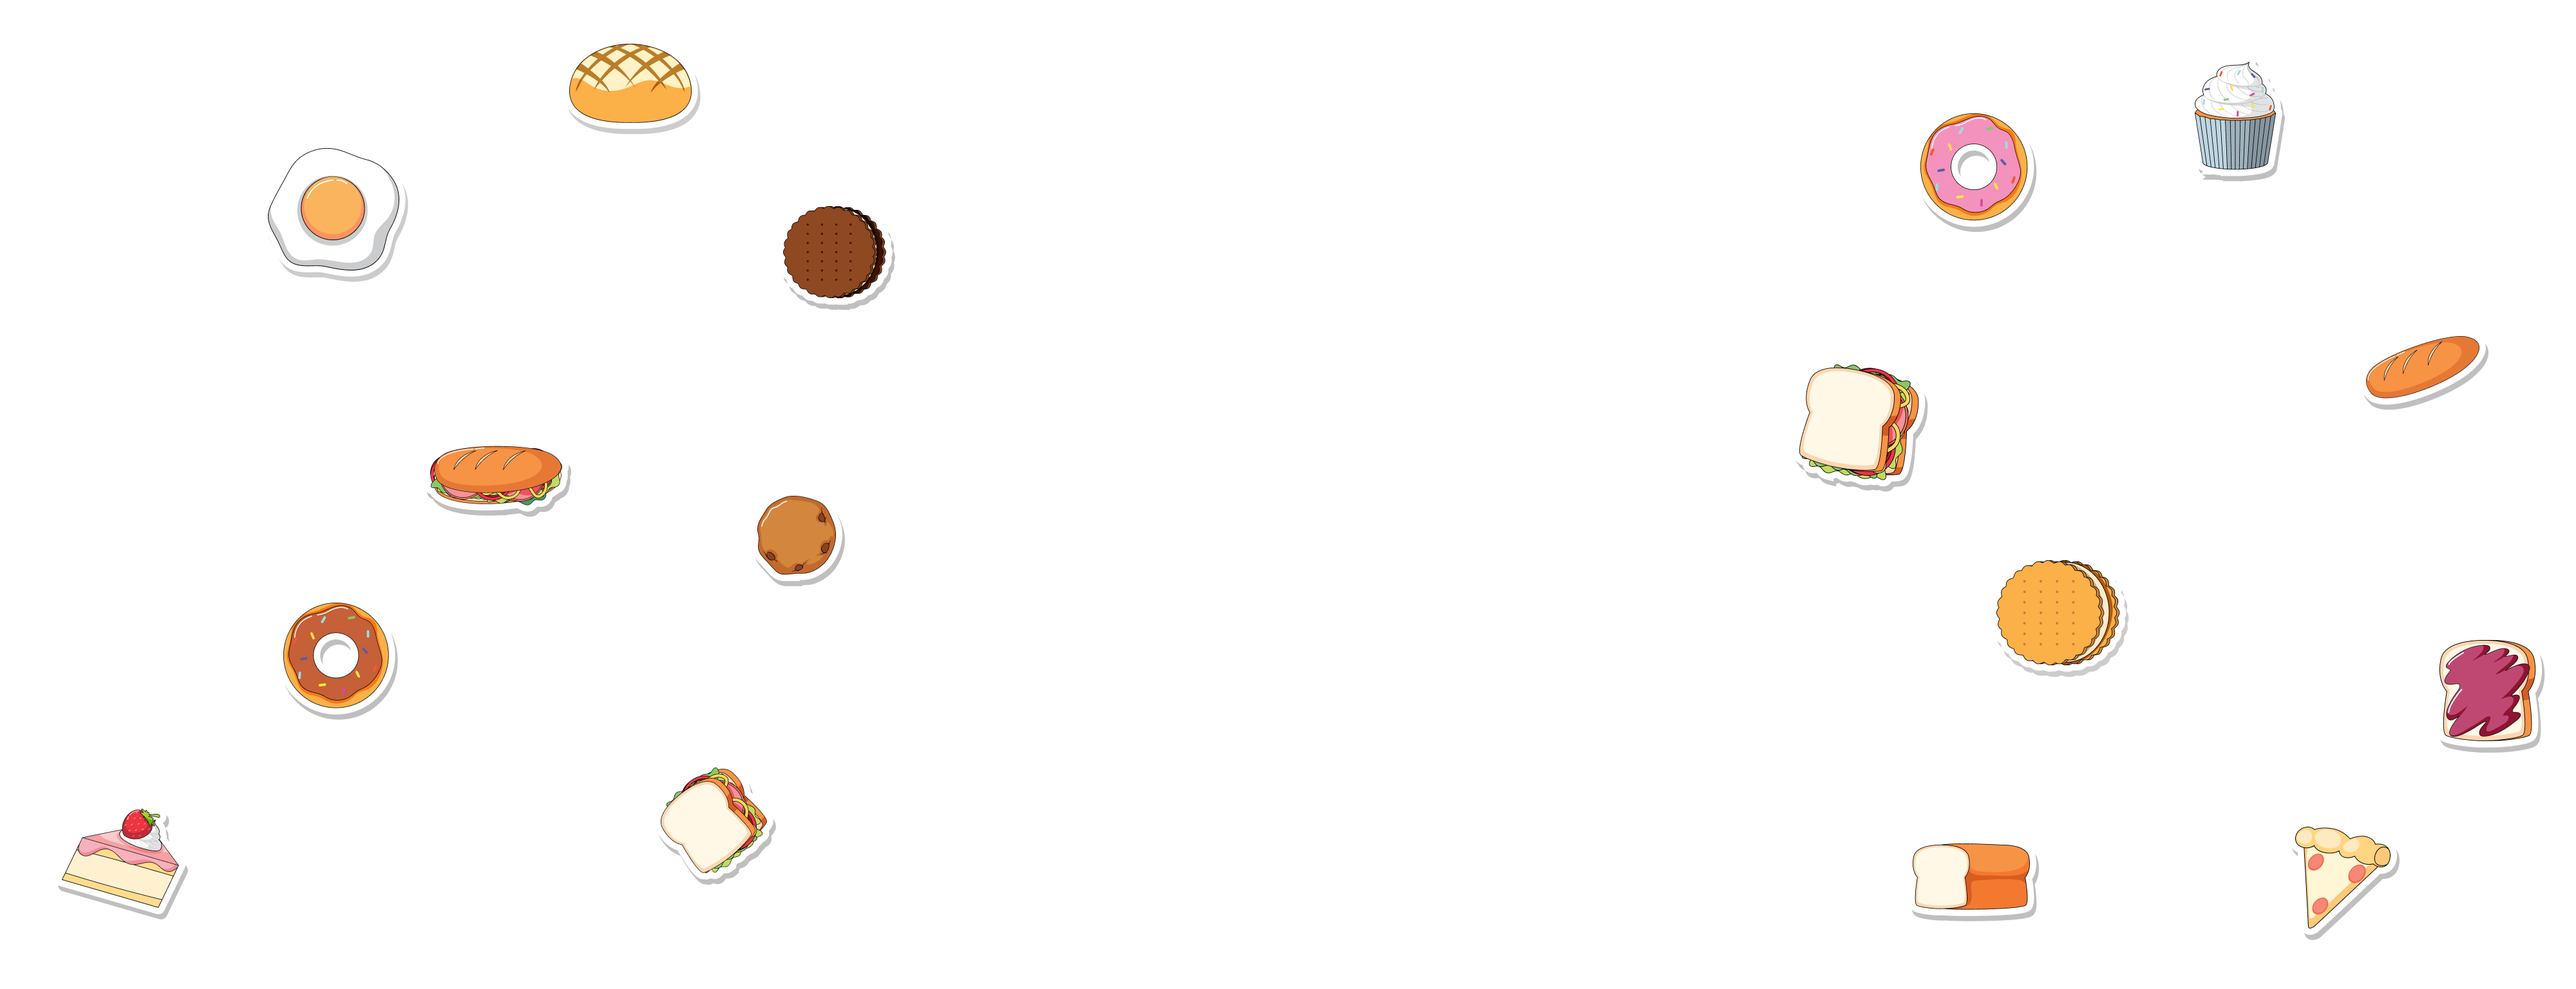
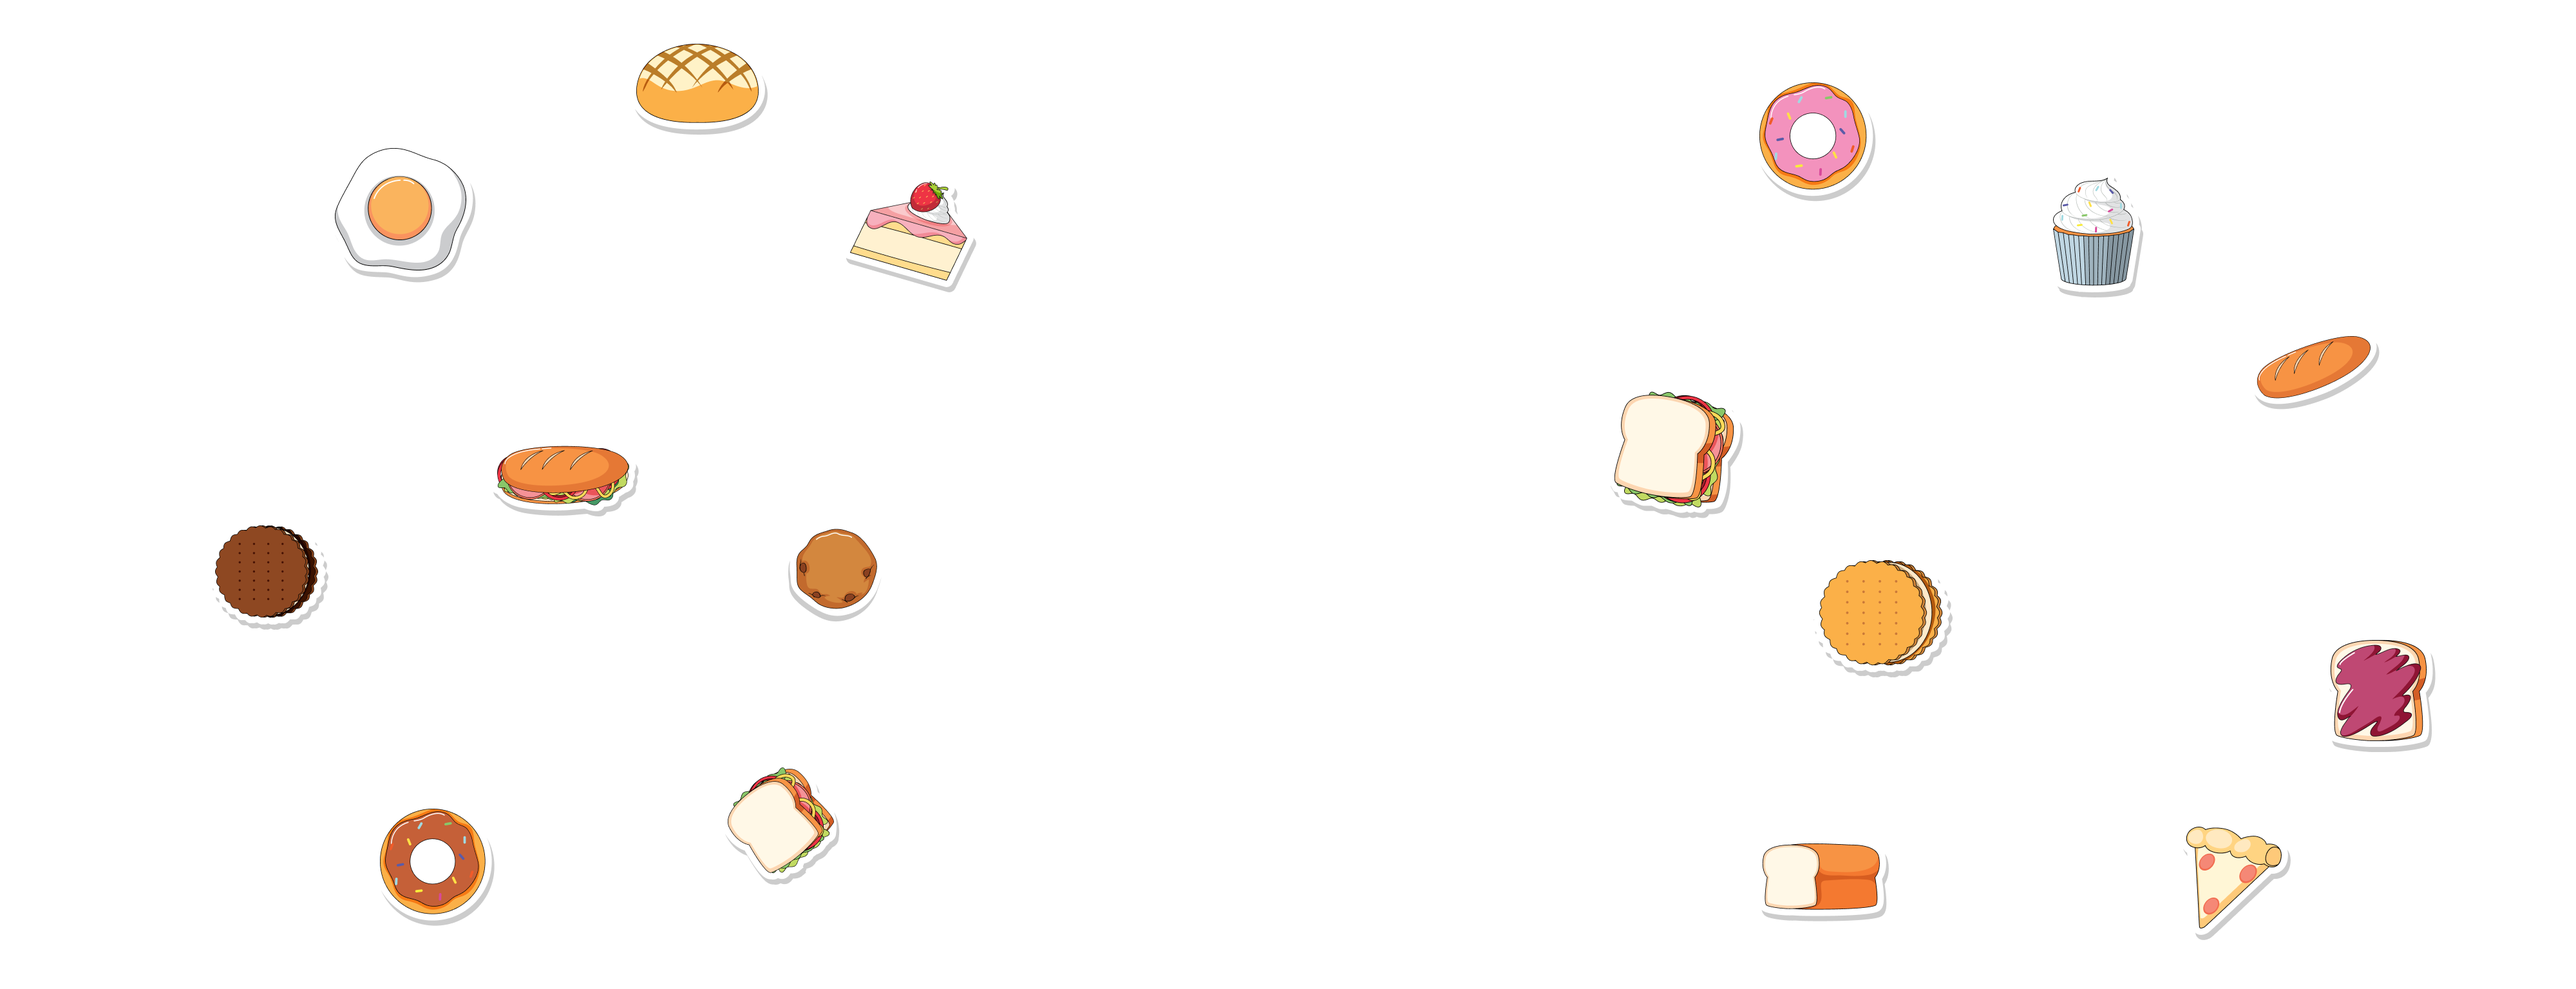
Add filler image to background

diff --git a/add-item.html b/add-item.html
@@ -1,0 +1,104 @@
+<!DOCTYPE html>
+<html lang="en">
+  <head>
+    <meta charset="UTF-8" />
+    <meta name="viewport" content="width=device-width, initial-scale=1.0" />
+    <title>Happy Campers Shopping</title>
+    <link rel="stylesheet" type="text/css" href="public/main.css" />
+    <link rel="preconnect" href="https://fonts.googleapis.com" />
+    <link rel="preconnect" href="https://fonts.gstatic.com" crossorigin="" />
+    <link
+      href="https://fonts.googleapis.com/css2?family=Gloria+Hallelujah&amp;family=Fredoka:wght@600&amp;display=swap"
+      rel="stylesheet"
+    />
+  </head>
+  </head>
+
+  <body>
+    <!-- ::: TEMP FOR INITAL CSS STYLING ::: -->
+    <div class="container">
+      <div class="logo-header">
+        <img
+          class="logo"
+          src="./server/images/logo-happy-campers.png"
+          alt="happy camper logo"
+        />
+      </div>
+      <div class="paper">
+        <h1>Shopping List</h1>
+        <div class="list">
+          <!-- :: ITEM 1 :: -->
+          <div class="list-item">
+            <!-- checkbox -->
+            <label class="checkbox">
+              <input type="checkbox" />
+              <span class="checkmark"></span>
+            </label>
+            <!-- item image & name -->
+            <img class="img-circle" src="./server/images/milk.jpg" />
+            <span class="item-label">Milk</span>
+            <!-- delete item button -->
+            <button class="delete-item"></button>
+          </div>
+          <!-- :: ITEM 2 :: -->
+          <div class="list-item">
+            <!-- checkbox -->
+            <label class="checkbox">
+              <input type="checkbox" />
+              <span class="checkmark"></span>
+            </label>
+            <!-- item image & name -->
+            <img class="img-circle" src="./server/images/cheese.jpg" />
+            <span class="item-label">Cheese</span>
+            <!-- delete item button -->
+            <button class="delete-item"></button>
+          </div>
+          <!-- :: ITEM 3 :: -->
+          <div class="list-item">
+            <!-- checkbox -->
+            <label class="checkbox">
+              <input type="checkbox" />
+              <span class="checkmark"></span>
+            </label>
+            <!-- item image & name -->
+            <img class="img-circle" src="./server/images/watermelon.jpg" />
+            <span class="item-label">Watermelon</span>
+            <!-- delete item button -->
+            <button class="delete-item"></button>
+          </div>
+        </div>
+        <div class="actions">
+          <a href>Add item</a>
+          <a href>Clear list</a>
+        </div>
+        <div class="pencil">
+          <img class="pencil-piece" src="./server/images/pencil1.png" />
+          <img class="pencil-fill" src="./server/images/pencil2.png" />
+          <img class="pencil-piece" src="./server/images/pencil3.png" />
+          <img class="pencil-fill" src="./server/images/pencil4.png" />
+          <img class="pencil-piece" src="./server/images/pencil5.png" />
+        </div>
+      </div>
+    </div>
+    <br />
+    <br />
+    <!-- ::: END TEMP ::: -->
+
+    <h1>Happy Campers Shopping</h1>
+
+    <h2>Subheading</h2>
+
+    <img src="image.jpg" alt="shopping related pic" />
+
+    <div>
+      <p>Some text content</p>
+    </div>
+
+    <div>
+      <li>Item 1</li>
+      <li>Item 2</li>
+      <li>Item 3</li>
+      <li>Item 4</li>
+    </div>
+  </body>
+</html>

diff --git a/public/main.css b/public/main.css
@@ -32,6 +32,20 @@ body {
     rgba(143, 143, 143, 1) 85%,
     rgba(82, 82, 82, 1) 100%
   );
+  background-image: url('../server/images/assorted-magnets.png');
+  background-image: url('../server/images/assorted-magnets.png'),
+    linear-gradient(
+      135deg,
+      rgba(82, 82, 82, 1) 0%,
+      rgba(143, 143, 143, 1) 15%,
+      rgba(200, 200, 200, 1) 40%,
+      rgba(220, 220, 220, 1) 50%,
+      rgba(200, 200, 200, 1) 60%,
+      rgba(143, 143, 143, 1) 85%,
+      rgba(82, 82, 82, 1) 100%
+    );
+  background-position: center;
+  background-size: cover;
 }
 
 .container {
